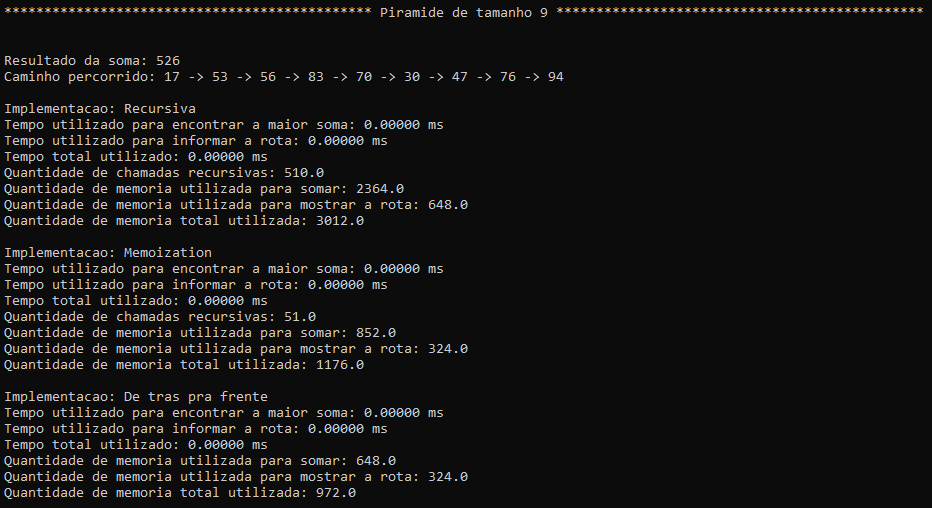
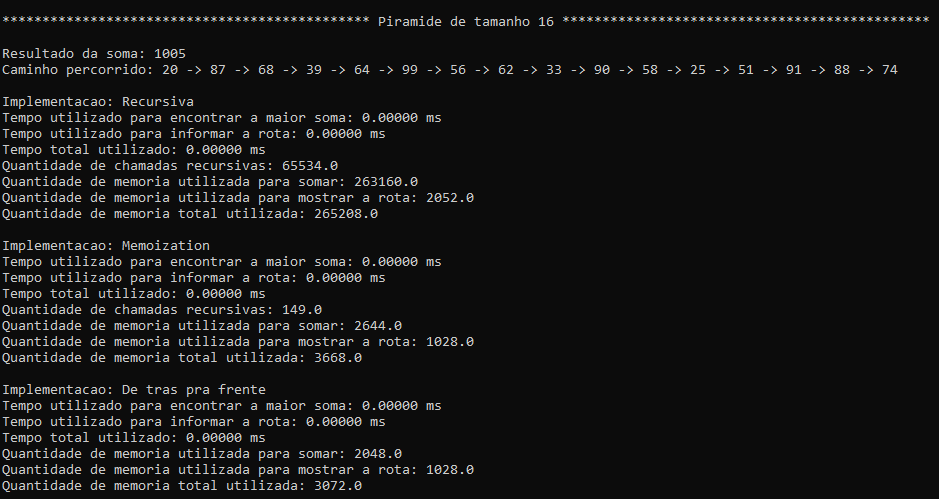
TP02

diff --git a/TP02/ParteA/partea.c b/TP02/ParteA/partea.c
@@ -434,7 +434,7 @@ void teste(TipoPiramide *piramide, TipoAnalise *analise, int quantidade){//funca
 	system("cls");
 
 	for (i = 0; i < quantidade; i++){ //vai rodar o numero de vezes que a pessoa desejar fazer o teste
-		tamanho = 1 + rand() % 49; //gera numeros aleatorios de 1 a 30
+		tamanho = 1 + rand() % 99; //gera numeros aleatorios de 1 a 30
 		contador = geraPiramide(i, tamanho, contador);
 		sprintf(nomeArquivo, "piramide%d", i);
 		lerArquivo(piramide, nomeArquivo);
